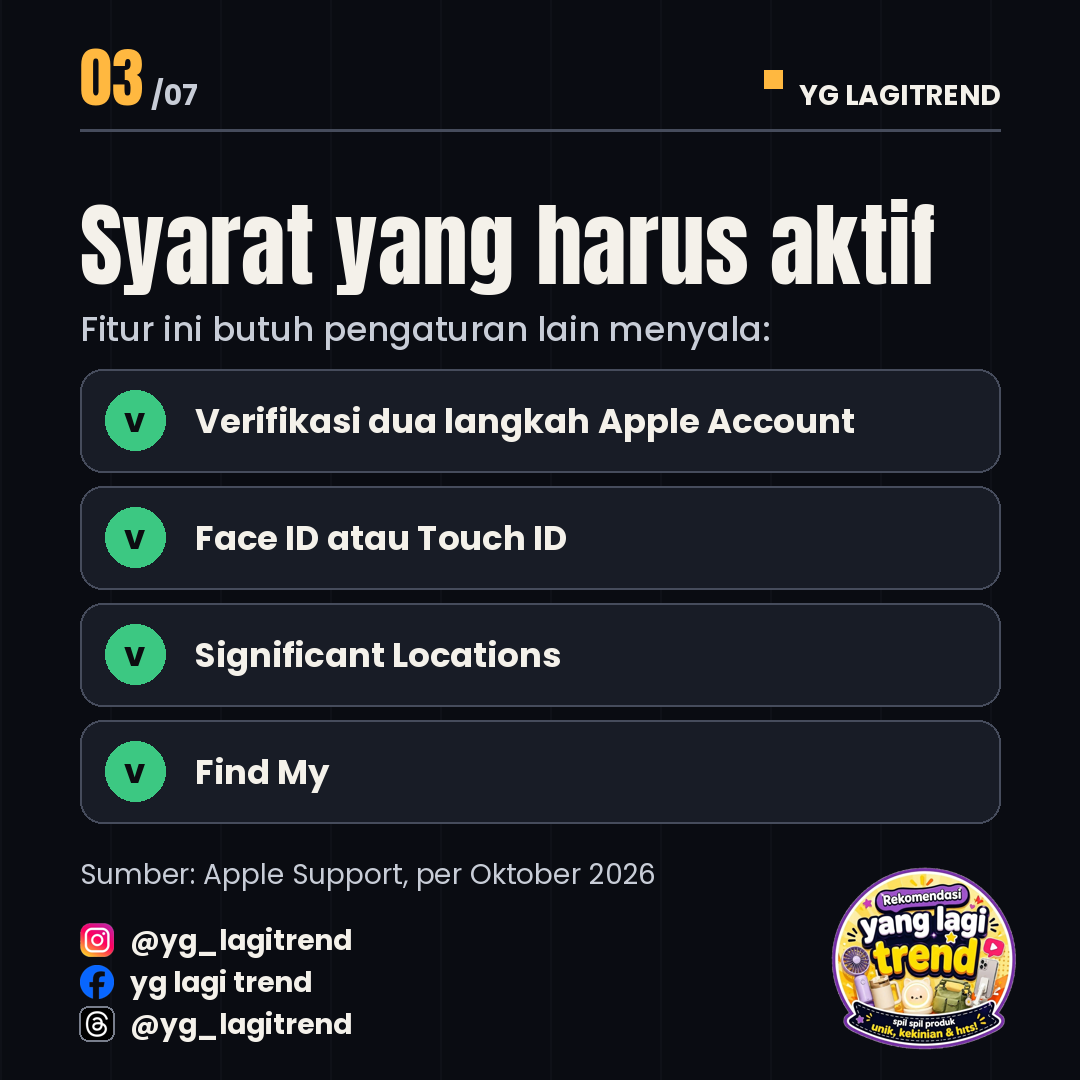
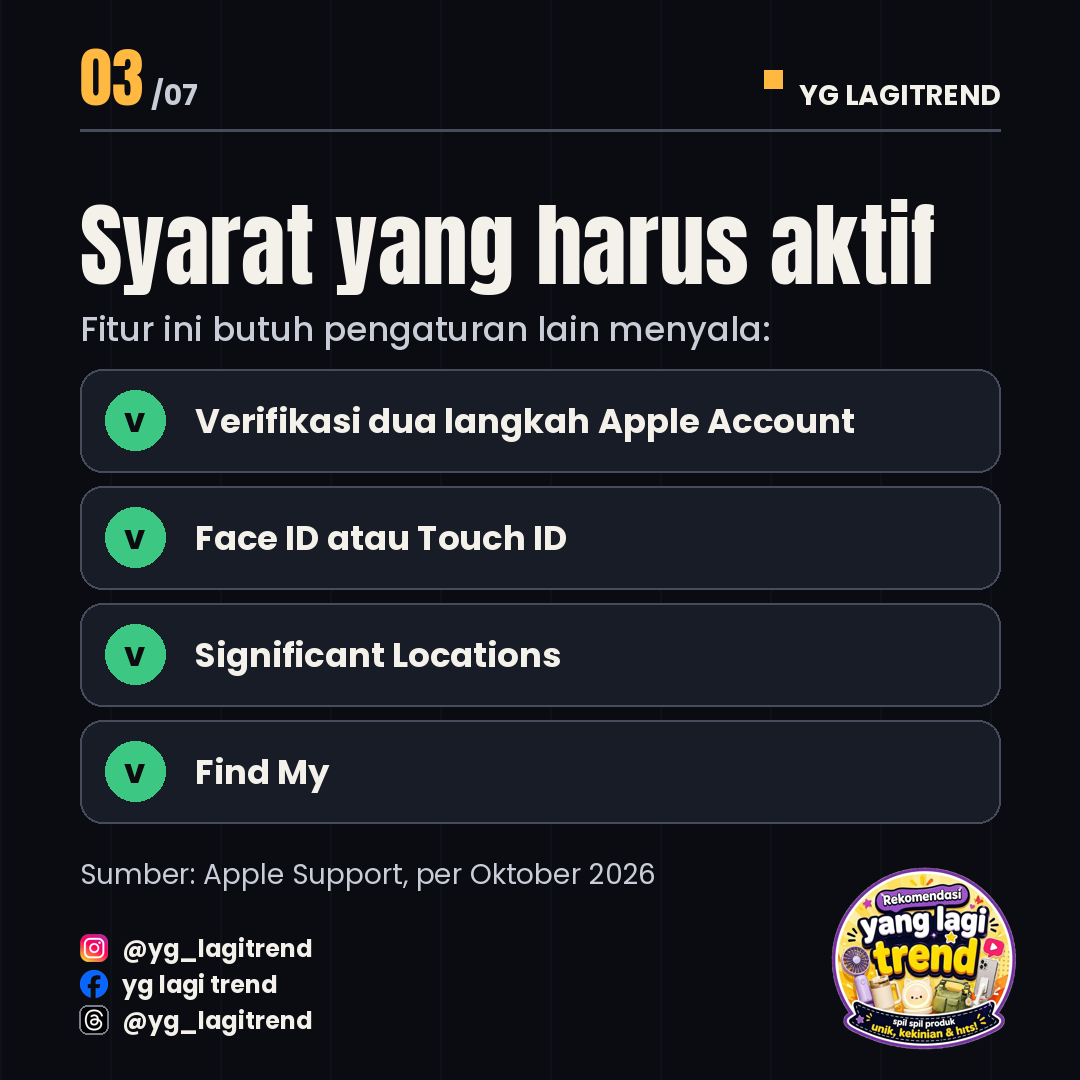
Identitas diperkecil (lebih kecil dari sumber dan isi)

Changed region(s): [[0.0611, 0.8556, 0.3361, 0.9778]]

diff --git a/template/car_template_v2.py b/template/car_template_v2.py
@@ -44,16 +44,16 @@ def logo(im,cx,cy,r=95,onacc=False):
         d.ellipse([cx-r,cy-r,cx+r,cy+r],outline=INKD if onacc else ACC,width=5);d.text((cx,cy),"LOGO",font=F(PB,30),fill=INKD if onacc else ACC,anchor='mm')
 def identity(d,im,x,y0,dark=False,pitch=42):
     # y0 = titik tengah baris pertama; ikon dan teks disejajarkan di tengah baris
-    col=INKD if dark else WHITE;S=34
+    col=INKD if dark else WHITE;S=28
     for k,(ic,txt) in enumerate(IDENT):
         cy=y0+k*pitch
         pth=ICONDIR+ic+'.png'
         if os.path.exists(pth):
             g=Image.open(pth).convert('RGBA');g.thumbnail((S,S));im.paste(g,(x+(S-g.width)//2,cy-g.height//2),g)
-            if ic=='th' and not dark:d.rounded_rectangle([x-1,cy-S//2-1,x+S,cy+S//2],radius=9,outline=(120,126,140),width=2)
+            if ic=='th' and not dark:d.rounded_rectangle([x-1,cy-S//2-1,x+S,cy+S//2],radius=8,outline=(120,126,140),width=2)
         else:
-            d.rounded_rectangle([x,cy-S//2,x+S,cy+S//2],radius=8,outline=col,width=3);d.text((x+S//2,cy),{'ig':'IG','fb':'FB','th':'TH'}[ic],font=F(PB,17),fill=col,anchor='mm')
-        d.text((x+S+16,cy),txt,font=F(PB,28),fill=col,anchor='lm')
+            d.rounded_rectangle([x,cy-S//2,x+S,cy+S//2],radius=7,outline=col,width=2);d.text((x+S//2,cy),{'ig':'IG','fb':'FB','th':'TH'}[ic],font=F(PB,14),fill=col,anchor='mm')
+        d.text((x+S+14,cy),txt,font=F(PB,24),fill=col,anchor='lm')
 def frame(i,n,src=None,panel=False):
     im=Image.new('RGB',(W,H),BG);d=ImageDraw.Draw(im)
     for x in range(0,W,110):d.line([x,0,x,H],fill=(15,17,24),width=2)
@@ -63,14 +63,14 @@ def frame(i,n,src=None,panel=False):
     d.line([80,130,W-80,130],fill=LN,width=3)
     if not panel:
         if src:d.text((80,884),src,font=F(PR,28),fill=MUT,anchor='ls')
-        identity(d,im,80,940,False,42);logo(im,925,960,95)
+        identity(d,im,80,948,False,36);logo(im,925,960,95)
     return im,d
 def hook(i,n,title,hl,body):
     im,d=frame(i,n,panel=True);y=170;tf=F(AN,112)
     for l in wrap(d,title,tf,920):d.text((80,y),l,font=tf,fill=WHITE);y+=122
     y+=26
     hw=d.textlength(hl,font=tf);d.rectangle([72,y+14,72+hw+36,y+150],fill=ACC);d.text((90,y+10),hl,font=tf,fill=INKD)
-    d.rectangle([0,650,W,H],fill=ACC);lines(d,80,682,body,F(PB,36),INKD,780,50);identity(d,im,80,925,True,42)
+    d.rectangle([0,650,W,H],fill=ACC);lines(d,80,682,body,F(PB,36),INKD,780,50);identity(d,im,80,935,True,36)
     logo(im,915,870,105,True);return im
 def content(i,n,title,intro,items,src,numbered=True):
     im,d=frame(i,n,src);y=175;tf=F(AN,92)
